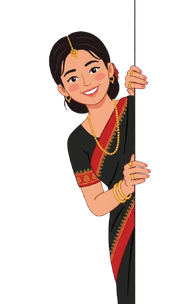
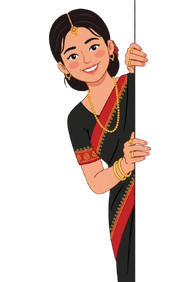
Shorten the peeking pole, add a brief "I'll be here" message on dismiss
The pole she grips ran the full height of the source artwork (669px),
so about 70px of it was bare line above her head with nothing else --
cropped that down to a short stub (kept ~20px of margin above her
head), regenerated mascot-peeking.png and adjusted the .peeking CSS
heights (desktop 282px, mobile 173px) to match. The horizontal grip
position didn't change (only cropped vertically), so the existing
`right` offsets that align her hand with the real viewport edge stay
correct.

Also added a brief "I'll be here if you need me!" bubble (bilingual)
that fades in for ~2.8s then fades out and removes itself, shown both
the moment she's dismissed to peeking and again on any fresh page load
while already in that state -- distinct from the persistent "Need
help?" hint, which still only shows in the full (non-peeking) state
exactly as before.

Verified: message appears with correct text right after dismiss and is
gone a few seconds later (matching the programmed 2.8s+0.4s timing),
also appears on a fresh page load when already dismissed, shortened
pole confirmed on both desktop and a 375px mobile viewport, no console
errors, HTML parses cleanly on all 7 pages.

Changed region(s): [[0.2647, 0.0284, 0.8824, 0.9362]]

diff --git a/style.css b/style.css
@@ -142,6 +142,18 @@ img, svg { max-width: 100%; }
   box-shadow: 0 2px 8px rgba(43,32,25,0.18);
 }
 #faq-bot-dismiss:hover { background: var(--cream-2); color: var(--terracotta-dark); }
+/* Brief "I'll be here if you need me!" bubble -- shown by faq-bot.js's
+   showPeekMessage() for a few seconds whenever the mascot becomes (or
+   loads already) peeking, then fades out and removes itself. Positioned
+   near her head in the peeking pose, unlike the persistent .faq-bot-hint
+   which only shows in the full (non-peeking) state. */
+.faq-bot-peek-msg {
+  position: absolute; top: 6px; right: 55px; background: var(--white); border: 1px solid var(--tan-border);
+  border-radius: 14px 14px 4px 14px; padding: 7px 13px; font-size: 12.5px; font-weight: 700; color: var(--ink);
+  white-space: nowrap; box-shadow: 0 6px 16px rgba(43,32,25,0.12);
+  opacity: 0; transform: translateY(4px); transition: opacity 0.35s ease, transform 0.35s ease; pointer-events: none;
+}
+.faq-bot-peek-msg.visible { opacity: 1; transform: translateY(0); }
 /* Dismissed state: swaps to a dedicated "peeking around the edge" pose
    (mascot-peeking.png -- same character, hands gripping a vertical edge,
    drawn into the art itself) instead of just cropping the standing/waving
@@ -152,7 +164,7 @@ img, svg { max-width: 100%; }
    site-wide via localStorage (see DISMISSED_KEY in faq-bot.js), so once
    dismissed she stays peeking on every page, not just the one she was
    dismissed on. */
-#faq-bot-launcher.peeking { width: 170px; height: 304px; right: -22px; }
+#faq-bot-launcher.peeking { width: 170px; height: 282px; right: -22px; }
 #faq-bot-launcher.peeking .faq-bot-hint,
 #faq-bot-launcher.peeking #faq-bot-dismiss { display: none; }
 #faq-bot-panel {
@@ -197,8 +209,9 @@ img, svg { max-width: 100%; }
 #faq-bot-input-form button:hover { background: var(--terracotta-dark); }
 @media (max-width: 480px) {
   #faq-bot-launcher { right: 10px; bottom: 10px; width: 108px; height: 194px; }
-  #faq-bot-launcher.peeking { width: 130px; height: 233px; right: -17px; }
+  #faq-bot-launcher.peeking { width: 130px; height: 173px; right: -17px; }
   .faq-bot-hint { font-size: 11.5px; padding: 6px 10px; right: 96px; }
+  .faq-bot-peek-msg { font-size: 11.5px; padding: 6px 10px; right: 40px; }
   #faq-bot-panel { right: 8px; bottom: 8px; left: 8px; width: auto; }
 }
 

diff --git a/faq-bot.js b/faq-bot.js
@@ -115,6 +115,35 @@
     try { localStorage.setItem(DISMISSED_KEY, "1"); } catch (e) {}
   }
 
+  // Brief reassurance bubble shown for a few seconds whenever the mascot is
+  // (or becomes) peeking -- unlike .faq-bot-hint in the full state, this one
+  // isn't meant to stay up, just a quick "still here" before it fades.
+  var PEEK_MESSAGE = {
+    en: "I'll be here if you need me!",
+    ne: "चाहिएमा म यहीं हुनेछु!"
+  };
+
+  function showPeekMessage(launcher) {
+    var existing = launcher.querySelector(".faq-bot-peek-msg");
+    if (existing) existing.remove();
+    var msg = document.createElement("span");
+    msg.className = "faq-bot-peek-msg";
+    msg.setAttribute("data-en", PEEK_MESSAGE.en);
+    msg.setAttribute("data-ne", PEEK_MESSAGE.ne);
+    msg.textContent = PEEK_MESSAGE[lang()];
+    launcher.appendChild(msg);
+    // Two rAFs so the browser commits the initial (invisible) state as its
+    // own paint before the "visible" class is added -- otherwise the two
+    // class changes can get batched into one frame and the fade never shows.
+    requestAnimationFrame(function () {
+      requestAnimationFrame(function () { msg.classList.add("visible"); });
+    });
+    setTimeout(function () {
+      msg.classList.remove("visible");
+      setTimeout(function () { msg.remove(); }, 400);
+    }, 2800);
+  }
+
   function build() {
     // A wrapper div, not a button itself -- it holds two separate real
     // buttons (open chat / dismiss to peeking), and a button can't
@@ -164,6 +193,8 @@
 
     document.body.appendChild(launcher);
     document.body.appendChild(panel);
+
+    if (startDismissed) showPeekMessage(launcher);
 
     var messagesEl = panel.querySelector("#faq-bot-messages");
     var menuEl = panel.querySelector("#faq-bot-menu");
@@ -235,6 +266,7 @@
       launcher.classList.add("peeking");
       openBtn.querySelector("#faq-bot-mascot-img").src = MASCOT_PEEKING_SRC;
       setDismissed();
+      showPeekMessage(launcher);
     });
 
     inputForm.addEventListener("submit", function (e) {
